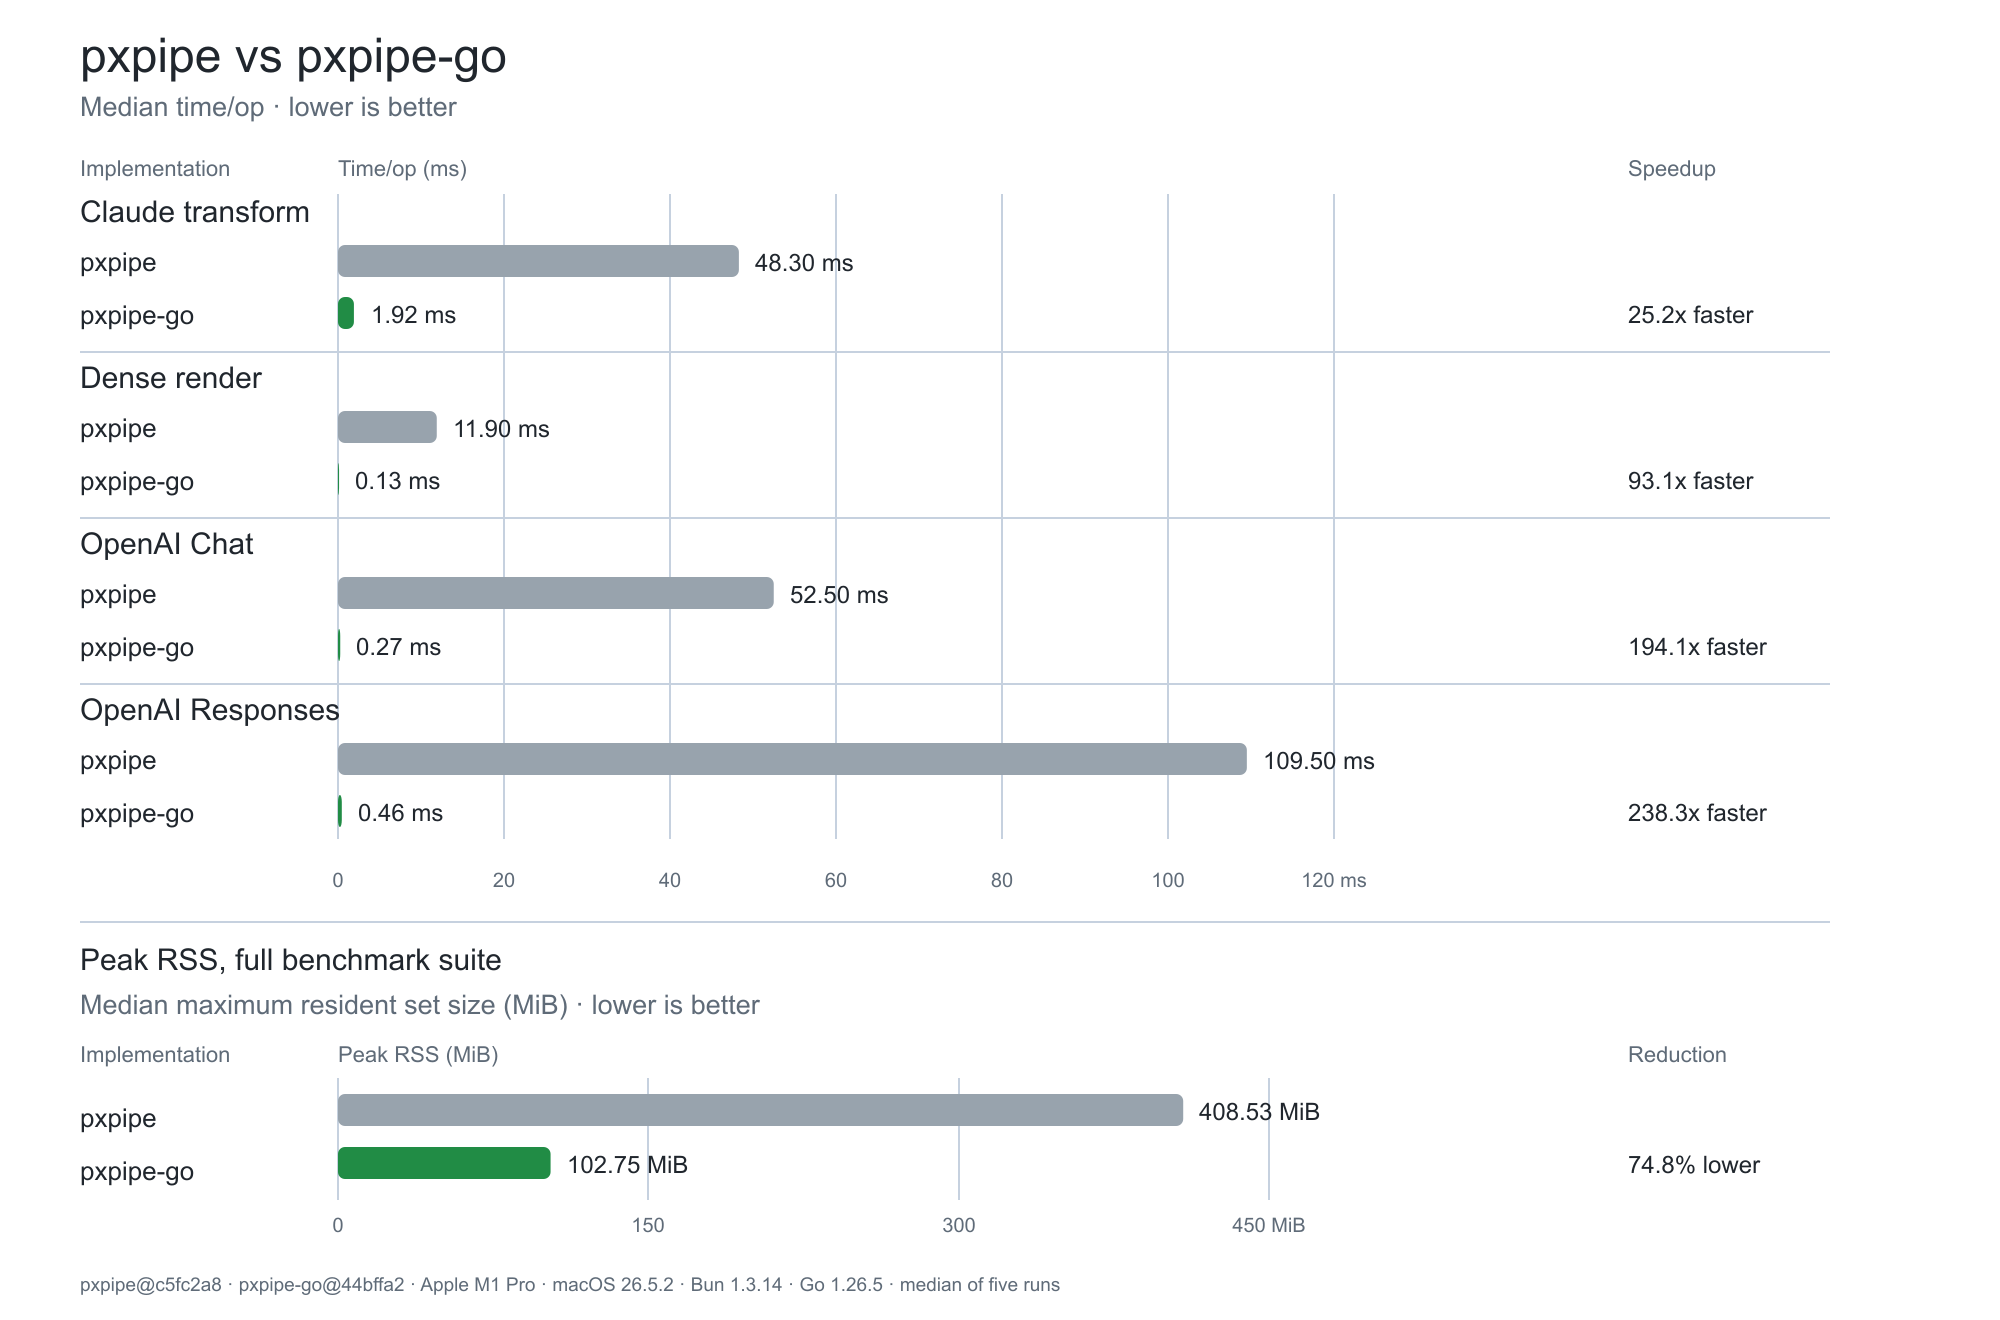
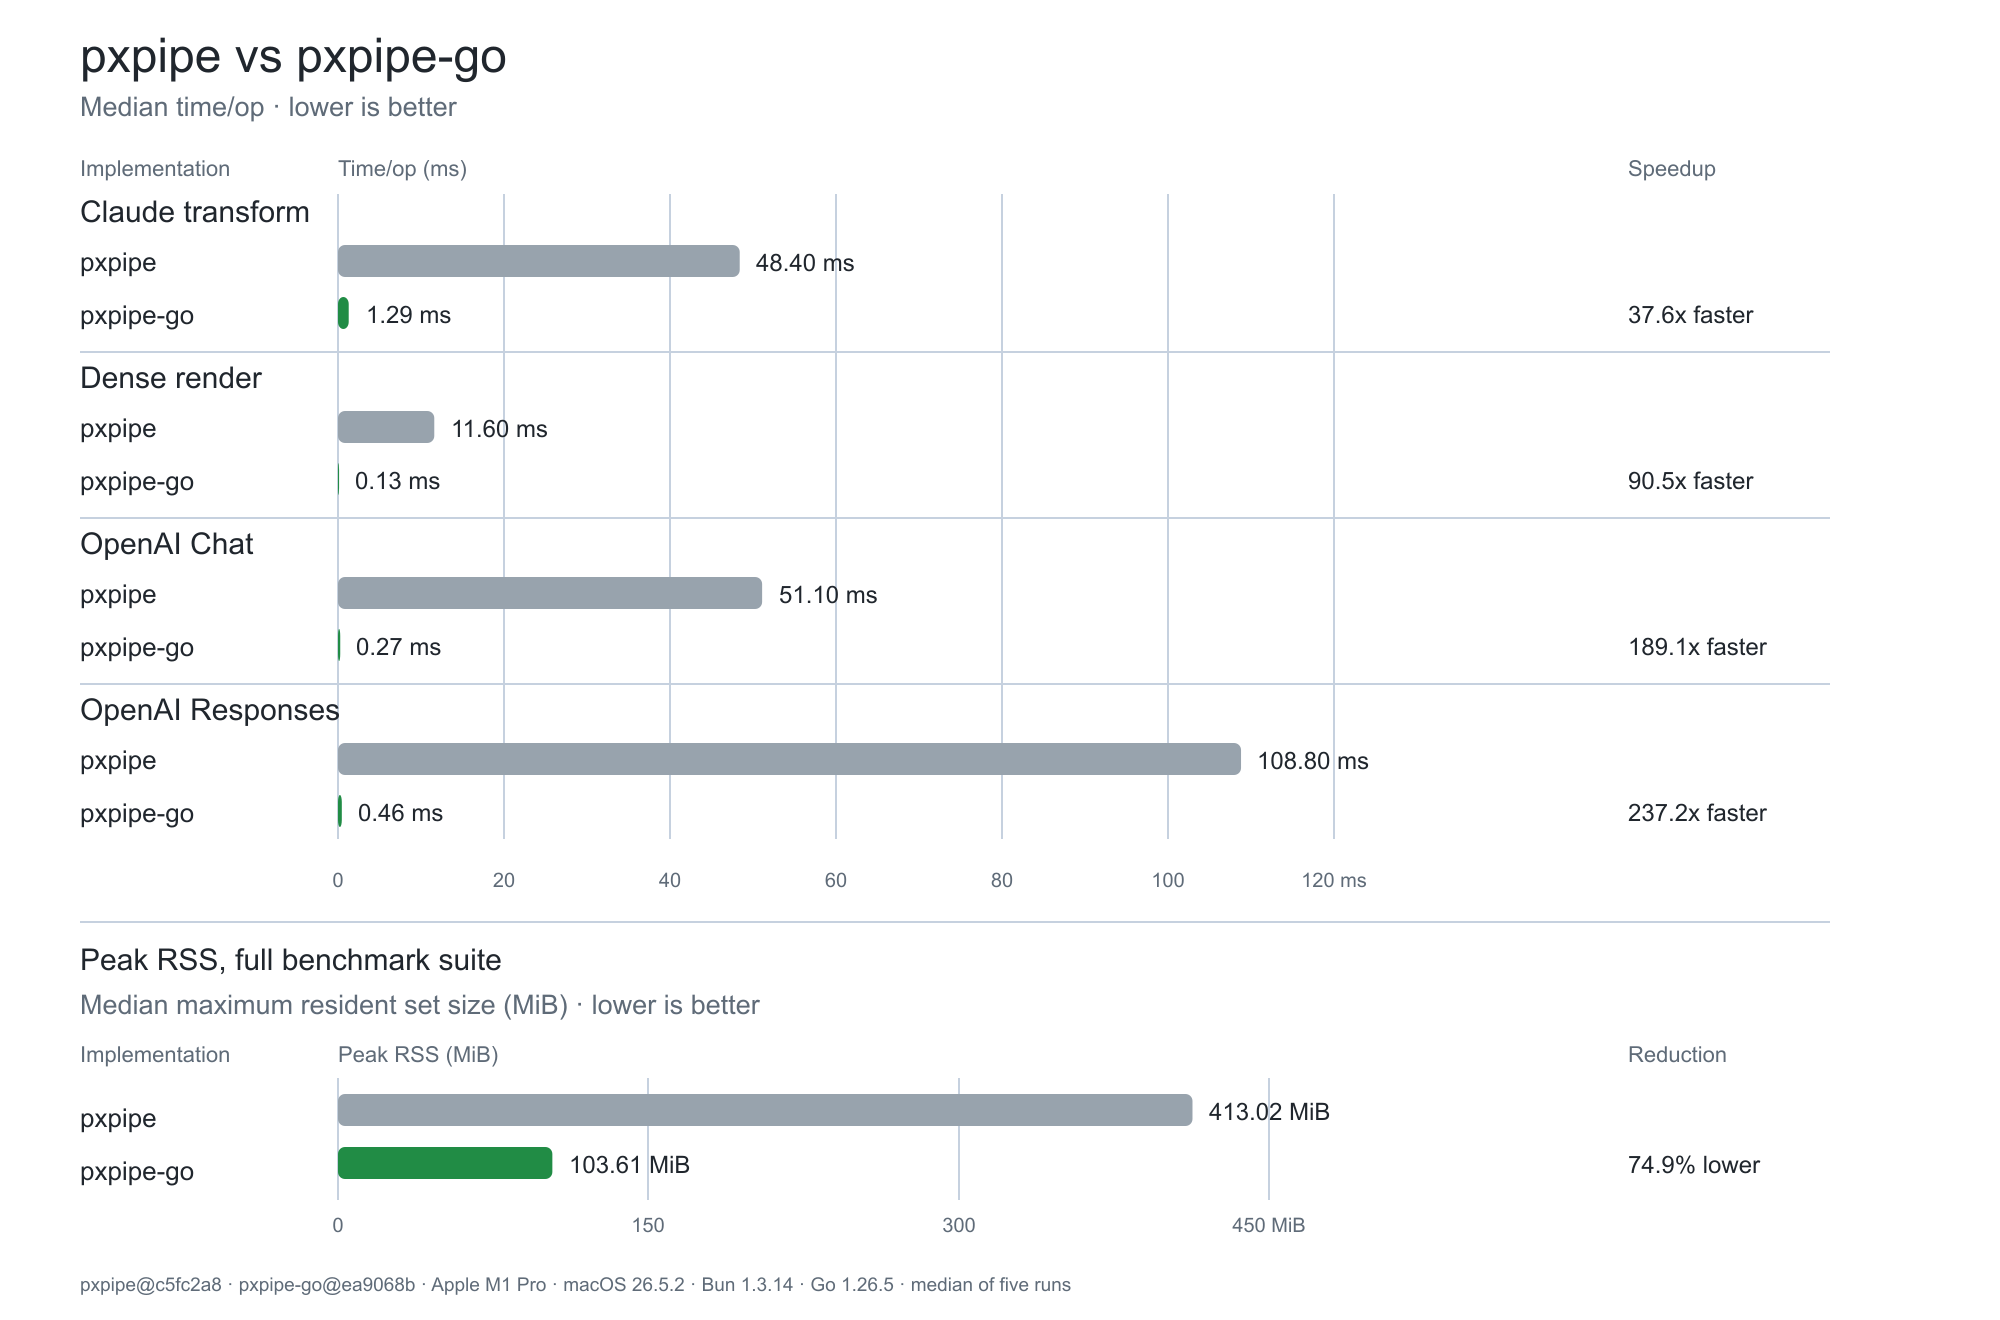
docs: update the latest benchmark measurements

diff --git a/README.md b/README.md
@@ -325,11 +325,11 @@ Rendered pages are cached by exact render inputs. The cache retains up to
 64 MiB by default. Set `PXPIPE_RENDER_CACHE_BYTES` to another byte limit, or
 set it to `0` to disable the cache.
 
-![pxpipe versus pxpipe-go benchmark: pxpipe-go is 25.2 to 238.3 times faster across four workloads and uses 74.8% less peak RSS](docs/benchmark-improvements.png)
+![pxpipe versus pxpipe-go benchmark: pxpipe-go is 37.6 to 237.2 times faster across four workloads and uses 74.9% less peak RSS](docs/benchmark-improvements.png)
 
 Measured natively on an Apple M1 Pro running macOS 26.5.2, with Bun 1.3.14
 and Go 1.26.5. Go used the machine-default `GOMAXPROCS=10` and no PGO profile.
-The comparison uses `pxpipe@c5fc2a8` and `pxpipe-go@44bffa2`
+The comparison uses `pxpipe@c5fc2a8` and `pxpipe-go@ea9068b`
 (2026-08-11).
 
 Values are medians of five runs. Each pxpipe run performs two warmups and
@@ -339,27 +339,27 @@ CPU architecture, available cores, and request content.
 
 | benchmark | pxpipe time/op | pxpipe-go time/op | speedup |
 |---|---:|---:|---:|
-| TransformBigClaudeCode | 48.30 ms | 1.92 ms | 25.2× |
-| RenderDensePage | 11.90 ms | 0.13 ms | 93.1× |
-| TransformOpenAIChat | 52.50 ms | 0.27 ms | 194.1× |
-| TransformOpenAIResponses | 109.50 ms | 0.46 ms | 238.3× |
+| TransformBigClaudeCode | 48.40 ms | 1.29 ms | 37.6× |
+| RenderDensePage | 11.60 ms | 0.13 ms | 90.5× |
+| TransformOpenAIChat | 51.10 ms | 0.27 ms | 189.1× |
+| TransformOpenAIResponses | 108.80 ms | 0.46 ms | 237.2× |
 
 Peak RSS was measured over the full four-benchmark suite in a fresh process
 for each run:
 
 | implementation | median peak RSS | relative to pxpipe |
 |---|---:|---:|
-| pxpipe | 408.53 MiB | baseline |
-| pxpipe-go | 102.75 MiB | 74.8% lower |
+| pxpipe | 413.02 MiB | baseline |
+| pxpipe-go | 103.61 MiB | 74.9% lower |
 
 Go's `-benchmem` output reports the following allocation volume per operation:
 
 | benchmark | B/op | allocs/op |
 |---|---:|---:|
-| TransformBigClaudeCode | 1,656,465 | 2,497 |
+| TransformBigClaudeCode | 1,582,178 | 2,491 |
 | RenderDensePage | 2,736 | 25 |
-| TransformOpenAIChat | 675,984 | 1,072 |
-| TransformOpenAIResponses | 1,155,624 | 1,326 |
+| TransformOpenAIChat | 651,408 | 1,072 |
+| TransformOpenAIResponses | 1,090,088 | 1,326 |
 
 Raw GC counts are not compared because V8 and Go use different collectors and
 event semantics. Peak RSS is the cross-runtime memory metric; `B/op` and
@@ -398,8 +398,8 @@ for benchmark_run in 1 2 3 4 5; do
 done
 ```
 
-Current macOS hot-cache profiles show SHA-256 and UTF-16 measurement as the
-largest remaining application CPU costs. On high-cardinality Responses,
+Current macOS hot-cache profiles show cache-prefix diagnostics and SHA-256 as
+the largest remaining application CPU costs. On high-cardinality Responses,
 level-6 PNG compression accounts for 72.5% of CPU after o200k counting fell to
 5.1%; mutex contention is negligible. Framebuffers and encoders are pooled.
 
